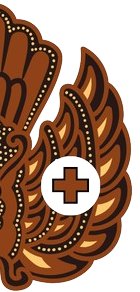
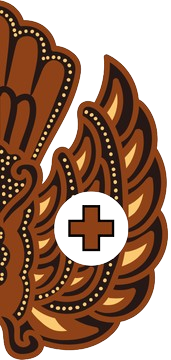
perbaikan5

diff --git a/static/css/dolanan_hp.css b/static/css/dolanan_hp.css
@@ -46,14 +46,6 @@
     gap: 0.8rem;
   }
 
-  .bottom-row > .calculator-column {
-    order: 1;
-  }
-
-  .bottom-row > .helper-panel {
-    order: 2;
-  }
-
   .math-card,
   .helper-panel,
   .calculator-panel {